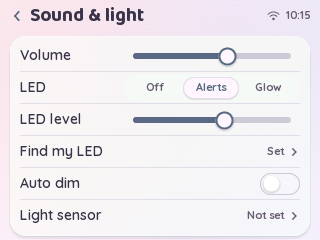
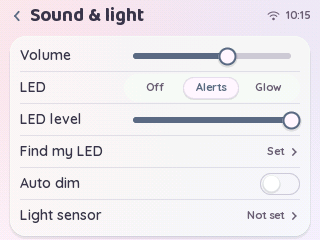
Make the alert LED brighter (0.8.1)
Owner: even at 100 % the LED is dimmer in use than in Find my LED. That test
holds one channel fully on; an alert breathed amber between 16 % and 100 %
along a plain cosine, so it was at full brightness only for an instant.

- The breath now dwells near the top (the cosine to the power 0.6), for every
  breathing pattern.
- An alert never dips below 43 % (floor 110, was 40) and breathes a little
  faster (1.6 s).
- The LED level now defaults to 100 %. The bedside glow stays faint at any level
  (a darker violet), since it is meant as a night light.

179 tests. Firmware 1,480,879 B. Screenshots regenerated (version string).

Claude-Session: https://claude.ai/code/session_01WrCzyR31TQn5da2N4PH2yW

Changed region(s): [[0.6562, 0.4667, 0.9375, 0.5542]]

diff --git a/src/stella/runtime/led_engine.cpp b/src/stella/runtime/led_engine.cpp
@@ -30,7 +30,9 @@ LedColor LedEngine::frame(uint32_t nowMs, bool &animating) const {
       case LedPattern::Breathe: {
         const uint32_t period = r.periodMs ? r.periodMs : 2000;
         const float phase = (float)(nowMs % period) / (float)period;
-        const float wave = 0.5f - 0.5f * cosf(phase * 6.2831853f);  // 0 -> 1 -> 0, smooth
+        // 0 -> 1 -> 0, smooth, but dwelling near the top: a plain cosine spends
+        // most of each breath dim, and an LED on a bedside table should be seen.
+        const float wave = powf(0.5f - 0.5f * cosf(phase * 6.2831853f), 0.6f);
         const float floor = r.floor / 255.f;
         k = floor + (1.f - floor) * wave;
         animating = true;

diff --git a/src/stella/runtime/runtime.cpp b/src/stella/runtime/runtime.cpp
@@ -1025,14 +1025,14 @@ void Runtime::updateLed(uint32_t now) {
   if (alertCount_) {
     alert.pattern = LedPattern::Breathe;
     alert.color = LedColor{255, 150, 40};  // warm amber
-    alert.periodMs = 1800;
-    alert.floor = 40;
+    alert.periodMs = 1600;
+    alert.floor = 110;  // an alarm stays visible between breaths
   }
   led_.set(LedSource::Alert, alert);
   LedRequest glow;
   if (topFullscreen() && settings_.ledMode == 2) {
     glow.pattern = LedPattern::Breathe;
-    glow.color = LedColor{36, 26, 64};  // a faint violet: this is a night light
+    glow.color = LedColor{24, 18, 44};  // a faint violet: this is a night light
     glow.periodMs = 7000;
     glow.floor = 90;
   }

diff --git a/src/stella/app/system_settings.h b/src/stella/app/system_settings.h
@@ -49,7 +49,7 @@ struct SystemSettings {
   // Status LED. Wiring is found by Settings > Sound & light > Find my LED (or
   // set by the board's sketch); kNoPin (255) = no LED.
   uint8_t ledMode = 1;           // 0 off, 1 alerts and progress, 2 also a faint glow on the bedside face
-  uint8_t ledLevel = 60;         // 5..100 %: the brightest it ever gets
+  uint8_t ledLevel = 100;        // 5..100 %: the brightest it ever gets
   uint8_t ledPin[3] = {255, 255, 255};  // red, green, blue
   bool ledInverted = true;
   // Ambient light: dim the screen in a dark room. Needs the calibration made in

diff --git a/src/stella/runtime/runtime.h b/src/stella/runtime/runtime.h
@@ -27,7 +27,7 @@
 #include "event_queue.h"
 
 #ifndef STELLA_VERSION
-#define STELLA_VERSION "0.8.0"
+#define STELLA_VERSION "0.8.1"
 #endif
 
 namespace stella {

diff --git a/README.md b/README.md
@@ -16,7 +16,7 @@ management and versioned settings.
 
 | | |
 | --- | --- |
-| Version | 0.8.0: status LED, Find my LED, ambient-light dimming with a calibration (0.7.x added update diagnostics and gentler flash writes; the screen-transition experiment was removed again) |
+| Version | 0.8.1 (brighter alert LED), 0.8.0: status LED, Find my LED, ambient-light dimming with a calibration (0.7.x added update diagnostics and gentler flash writes; the screen-transition experiment was removed again) |
 | First board | ESP32-2432S028R "Cheap Yellow Display" (2.8" 320x240, XPT2046) |
 | Host tests | 179 tests under ASan + UBSan, incl. touch-driven Wi-Fi onboarding, alarms, the stopwatch and the update flow; screenshots at 320x240 and 480x320 |
 | Firmware build | Compiles with Arduino-ESP32 3.3.12: 1.48 MB flash (75% of a 1.9 MB update slot), 84 KB static RAM (25%) |
